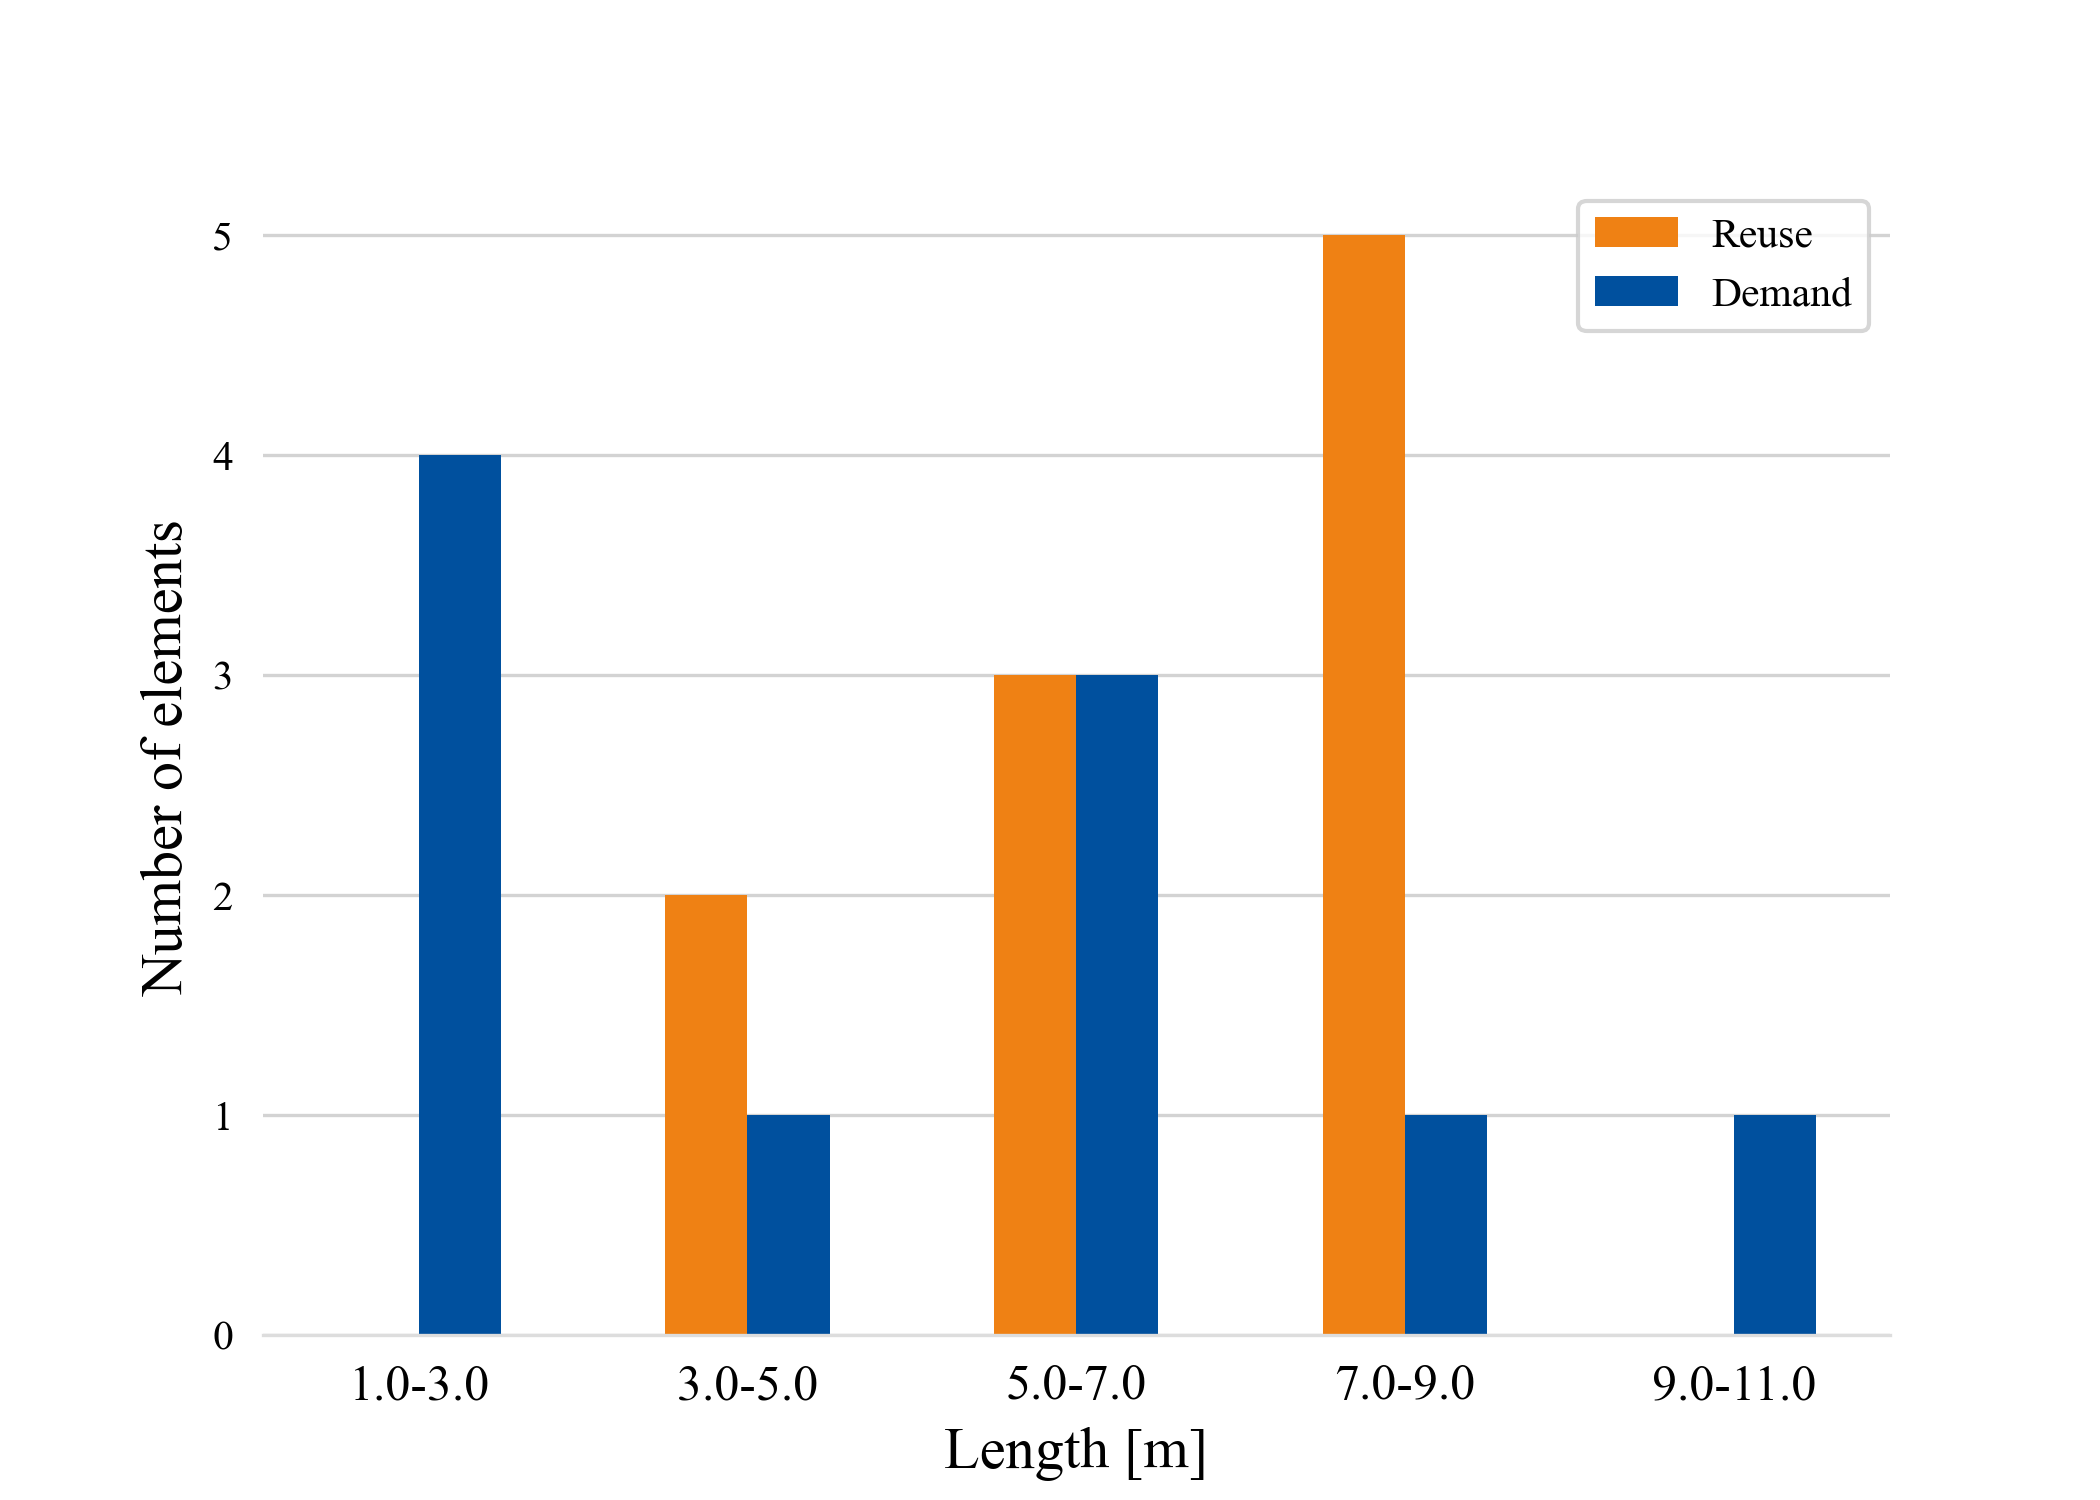
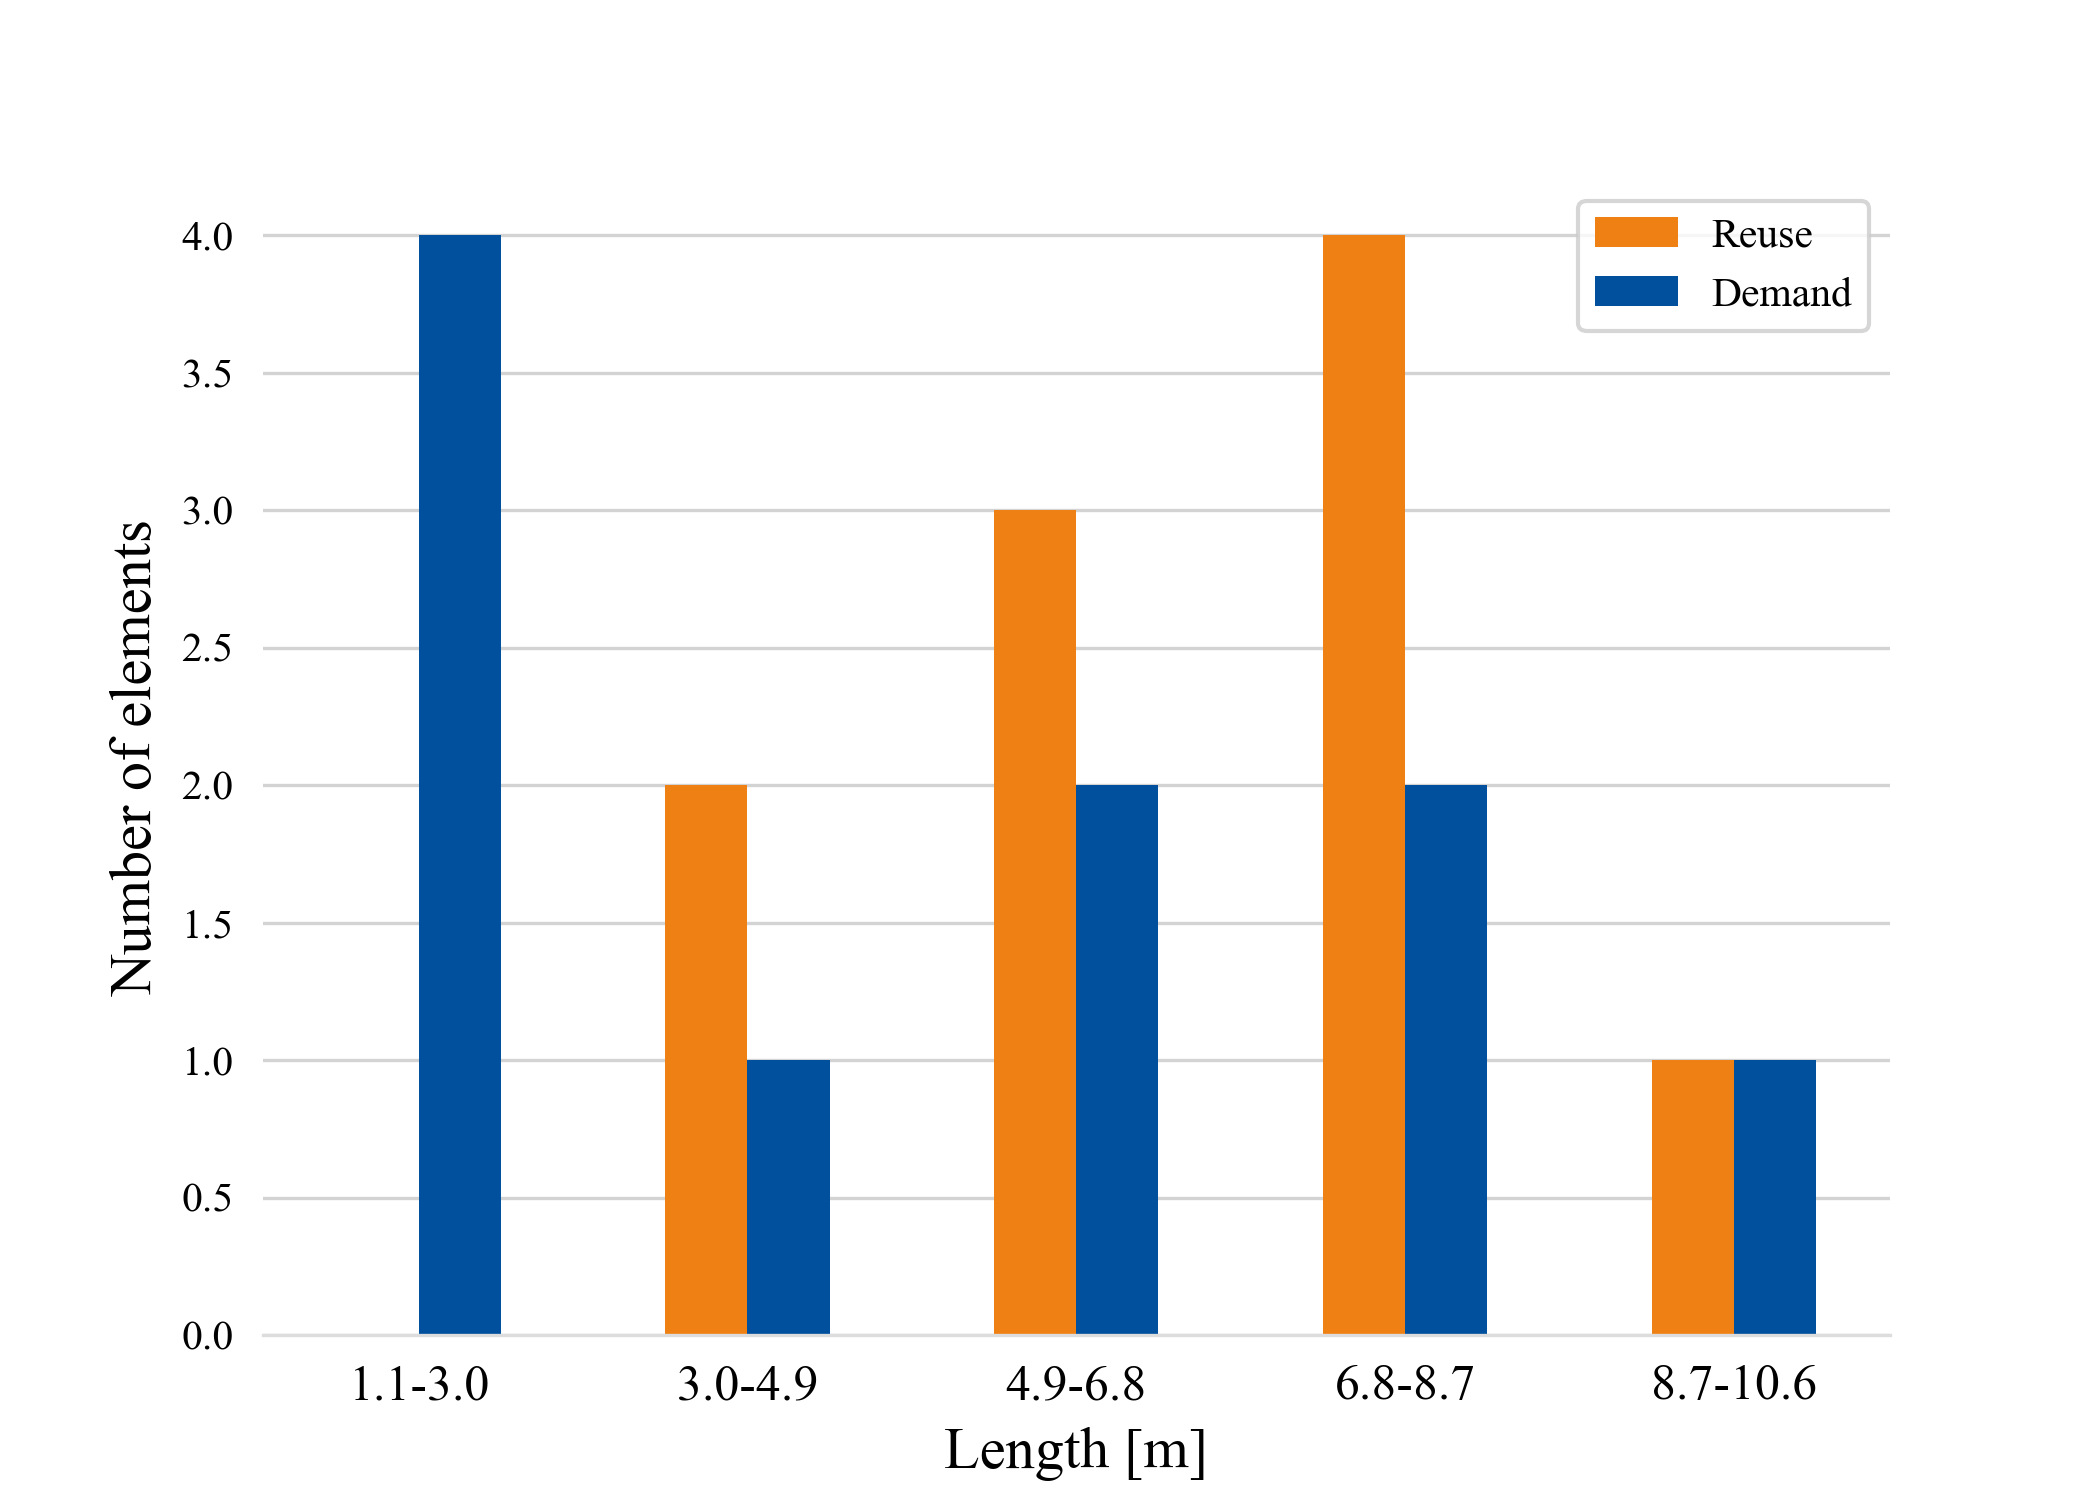
Looks crisp

diff --git a/Matching/plotting.py b/Matching/plotting.py
@@ -26,39 +26,27 @@ def create_graph(supply, demand, target_column, unit, number_of_intervals, save_
 
     supply_lengths = supply[target_column].to_numpy()
     demand_lengths = demand[target_column].to_numpy()
-    if target_column == "Moment of Inertia":
-        supply_lengths = supply_lengths*10e3
-        demand_lengths = demand_lengths*10e3
-        #test = 3
-
     min_length_pre = np.min([np.min(supply_lengths), np.min(demand_lengths)])
     if min_length_pre < 1:
         num_zeros = count_leading_zeros(min_length_pre)
-        shifter = num_zeros + 2
-        min_length = np.floor(min_length_pre * 10**shifter)/10**shifter
-        dec_format_min = shifter + 1
+        unit_change = num_zeros+1
+        unit_pure = unit.replace("[", "").replace("]", "")
+        unit_change_pure = r"10$^{-"+ str(unit_change) + r"}$"
+        unit = f"x {unit_change_pure} [{unit_pure}]"
+        dec_format = 2
+        supply_lengths = supply_lengths*10**unit_change
+        demand_lengths = demand_lengths*10**unit_change
+        min_length_pre = min_length_pre *10**unit_change
     else:
-        min_length = np.floor(min_length_pre)
-        dec_format_min = 1
-
-
-
+        dec_format = 1
+    min_length = np.floor(min_length_pre * 10)/10
     max_length_pre = np.max([np.max(supply_lengths), np.max(demand_lengths)])
-    if max_length_pre < 1:
-        num_zeros_decimal = str(max_length_pre).count('0') - str(max_length_pre).index('.')
-        num_zeros = count_leading_zeros(max_length_pre)
-        shifter = num_zeros + 2
-        max_length = np.ceil(max_length_pre * 10**shifter)/10**shifter
-        dec_format_max = shifter + 1
-    else:
-        max_length = np.ceil(max_length_pre)
-        dec_format_max = 1
-    
+    max_length = np.ceil(max_length_pre*10)/10
+   
     
     interval_size = (max_length - min_length) / number_of_intervals
     #dec_format_max = len(str(max_length_pre).split('.')[1])
     #dec_format_min = len(str(min_length_pre).split('.')[1])
-    dec_format = np.max([dec_format_max, dec_format_min])
     #dec_format = shifter
     supply_counts = {}
     demand_counts = {}

diff --git a/TestCases/study_case_generate_report.py b/TestCases/study_case_generate_report.py
@@ -71,9 +71,9 @@ score_function_string = hm.generate_score_function_string(constants)
 #demand = hm.import_dataframe_from_csv(r"" + constants["Demand file location"])
 supply = hm.import_dataframe_from_file(r"" + constants["Supply file location"], index_replacer = "S")
 demand = hm.import_dataframe_from_file(r"" + constants["Demand file location"], index_replacer = "D")
-plot.create_graph(supply, demand, target_column="Length", unit="[m]", number_of_intervals=5, save_filename=r"./Results/testplot2.png")
-plot.create_graph(supply, demand, target_column="Area", unit="[m^2]", number_of_intervals=4, save_filename=r"./Results/testplot3.png")
-plot.create_graph(supply, demand, target_column="Moment of Inertia", unit="[m^4]", number_of_intervals=4, save_filename=r"./Results/testplot4.png")
+plot.create_graph(supply, demand, target_column="Length", unit=r"[m]", number_of_intervals=5, save_filename=r"./Results/testplot2.png")
+plot.create_graph(supply, demand, target_column="Area", unit=r"[m^2]", number_of_intervals=5, save_filename=r"./Results/testplot3.png")
+plot.create_graph(supply, demand, target_column="Moment of Inertia", unit=r"[m^4]", number_of_intervals=5, save_filename=r"./Results/testplot4.png")
 #hm.create_graph(supply, demand, "Length", number_of_intervals= 2, save_filename = r"C:\Users\sigur\Downloads\test.png")
 
 constraint_dict = constants["constraint_dict"]
